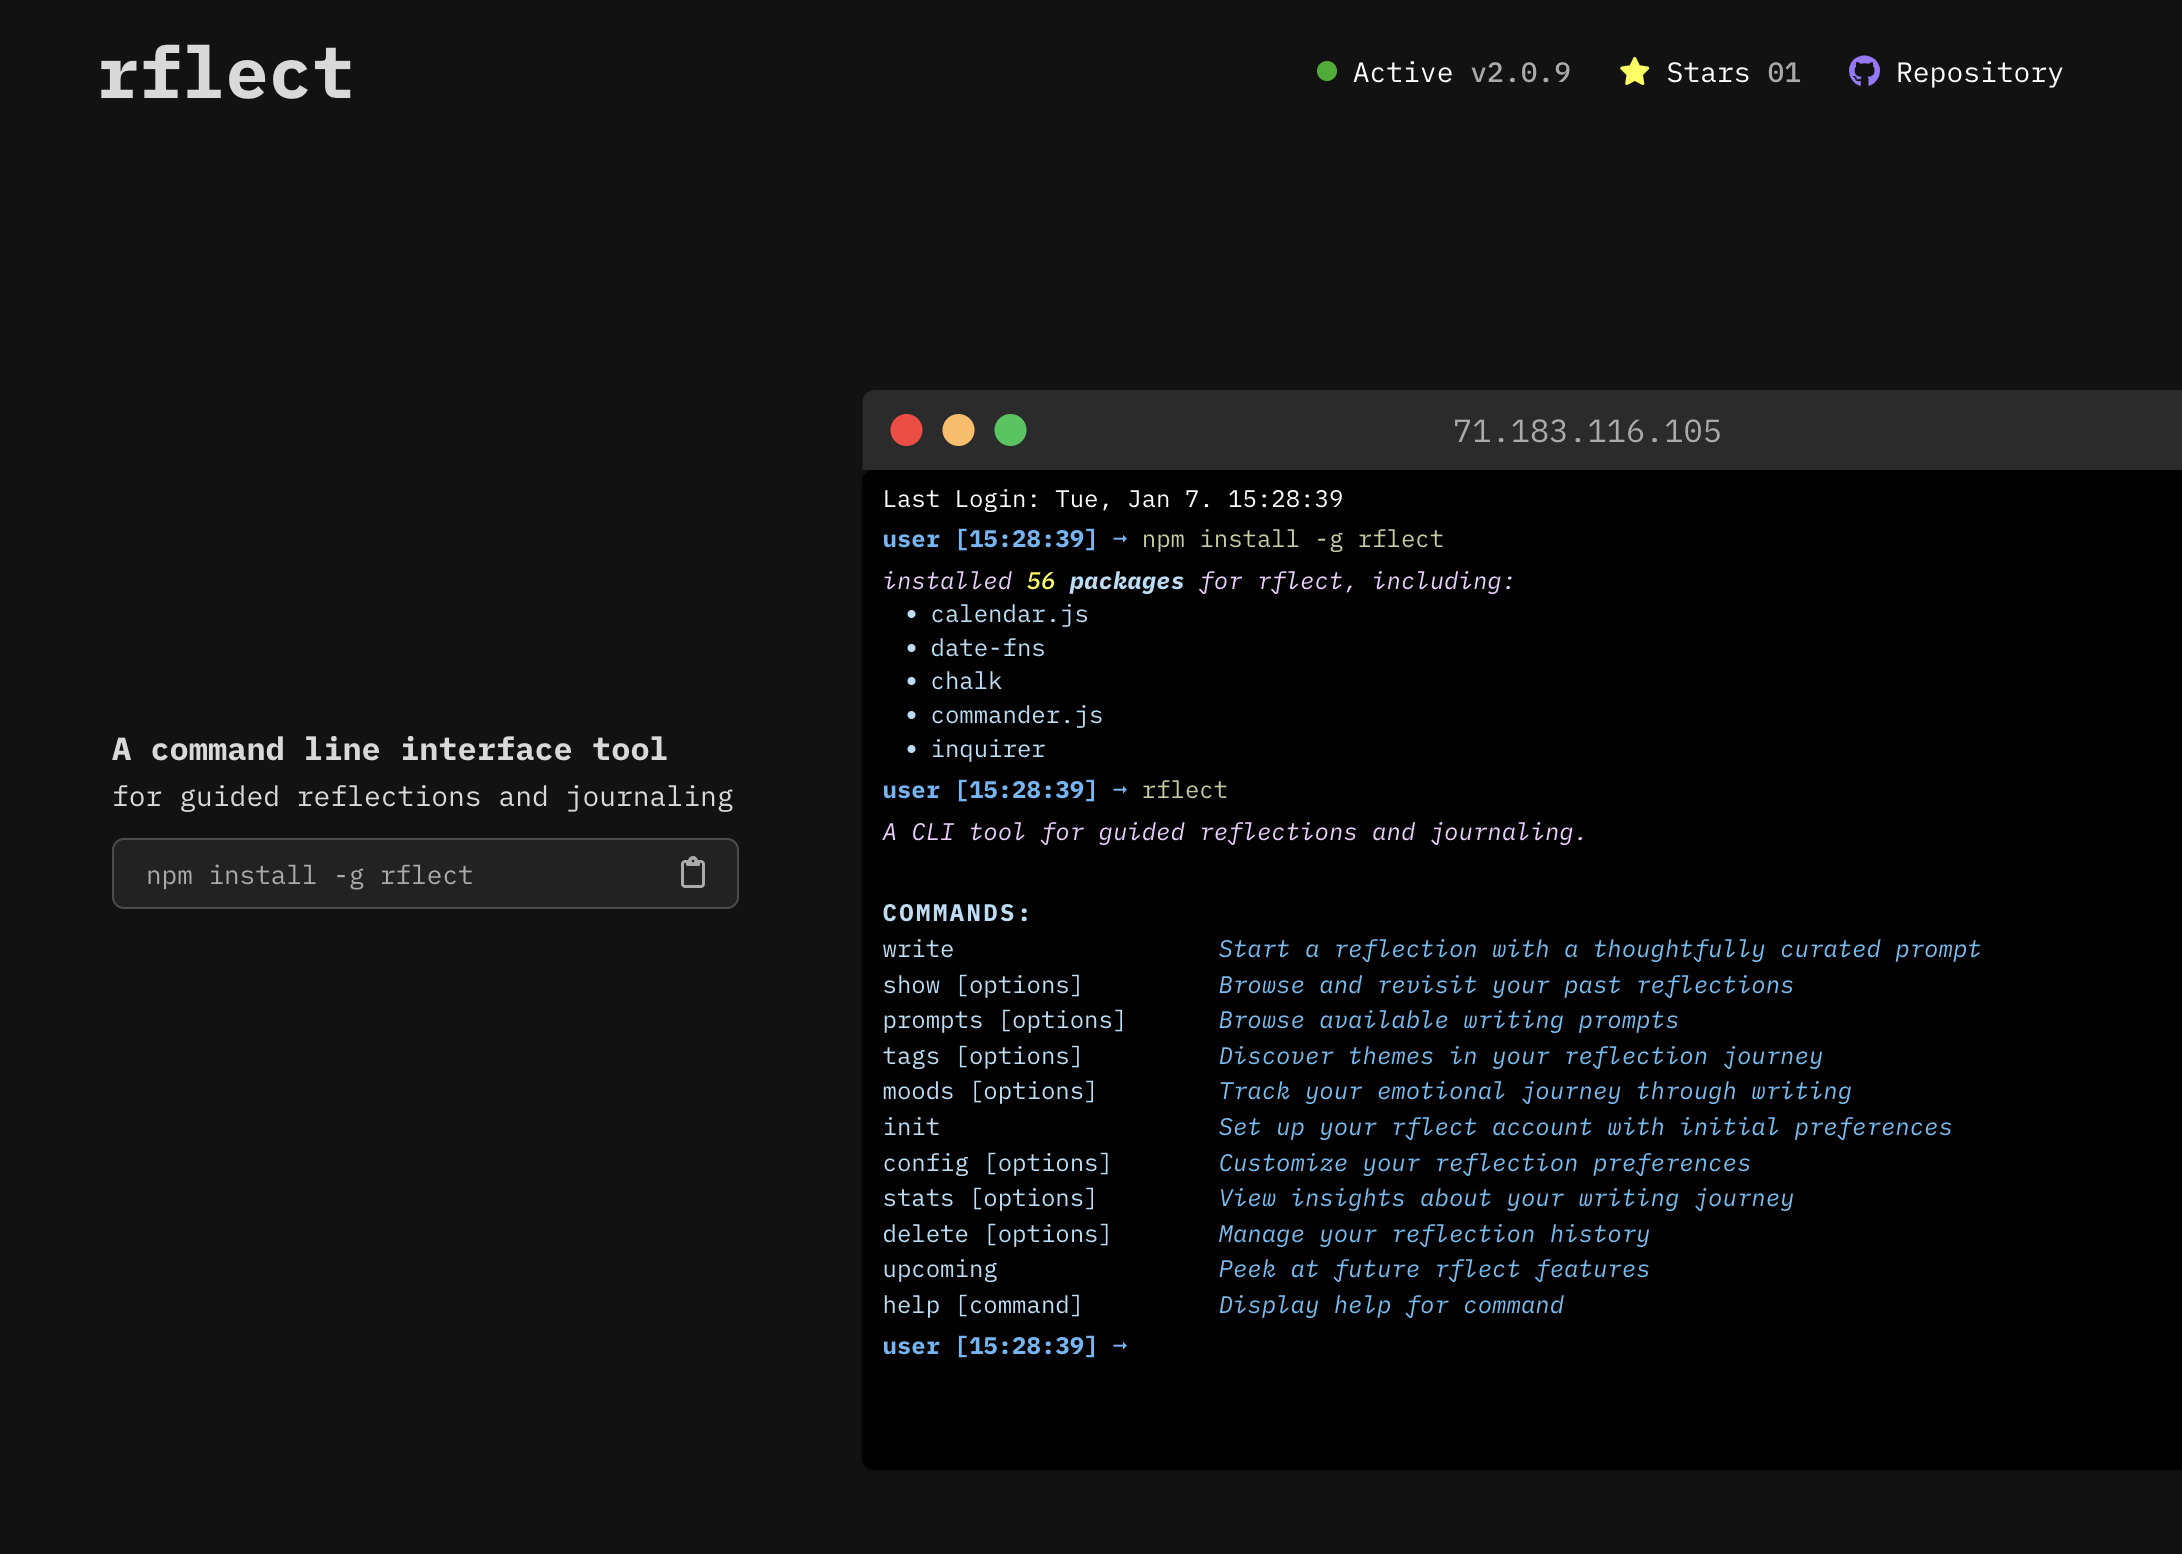
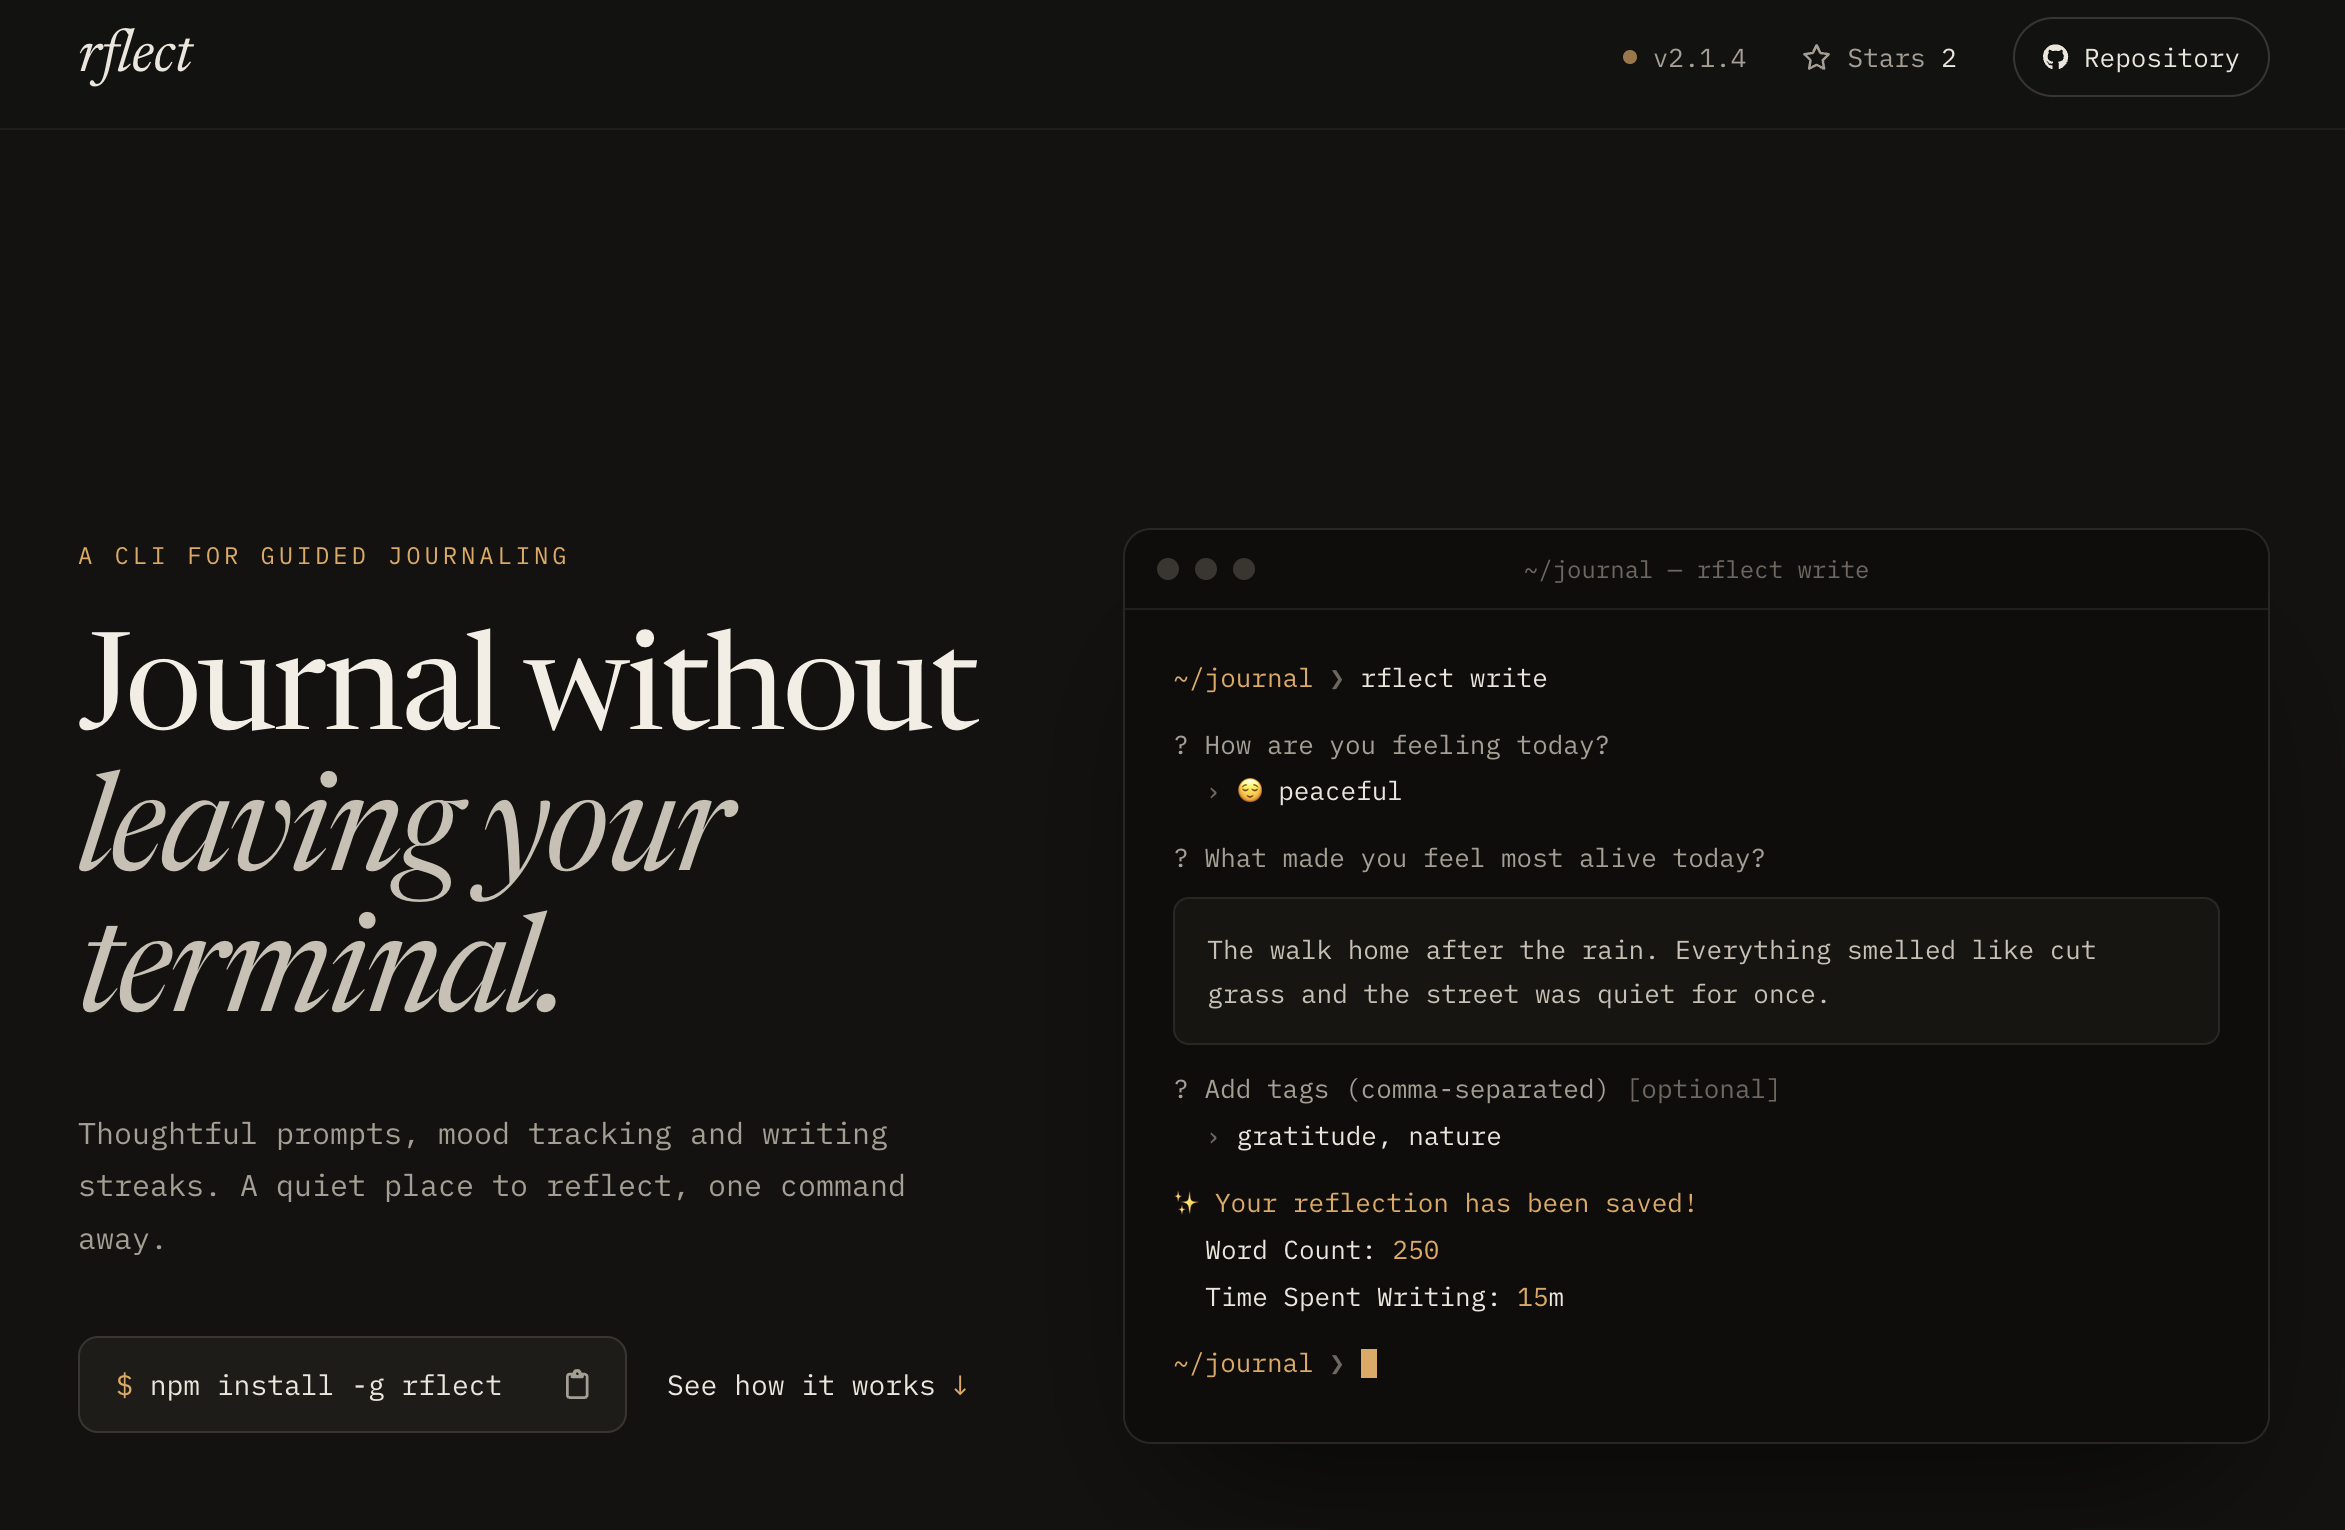
Update screenshots and remove focus border on header links
Claude-Session: https://claude.ai/code/session_01U8yJMJPBC1xhXP1zU1FLLp

diff --git a/src/styles/_header.scss b/src/styles/_header.scss
@@ -61,10 +61,12 @@ header {
         }
       }
 
+      // No border on focus, just brighter text with an underline
       &:focus-visible {
-        outline: 2px solid $accent;
-        outline-offset: 4px;
-        border-radius: 4px;
+        outline: none;
+        color: $text-primary;
+        text-decoration: underline;
+        text-underline-offset: 4px;
       }
 
       &--hide-sm {
